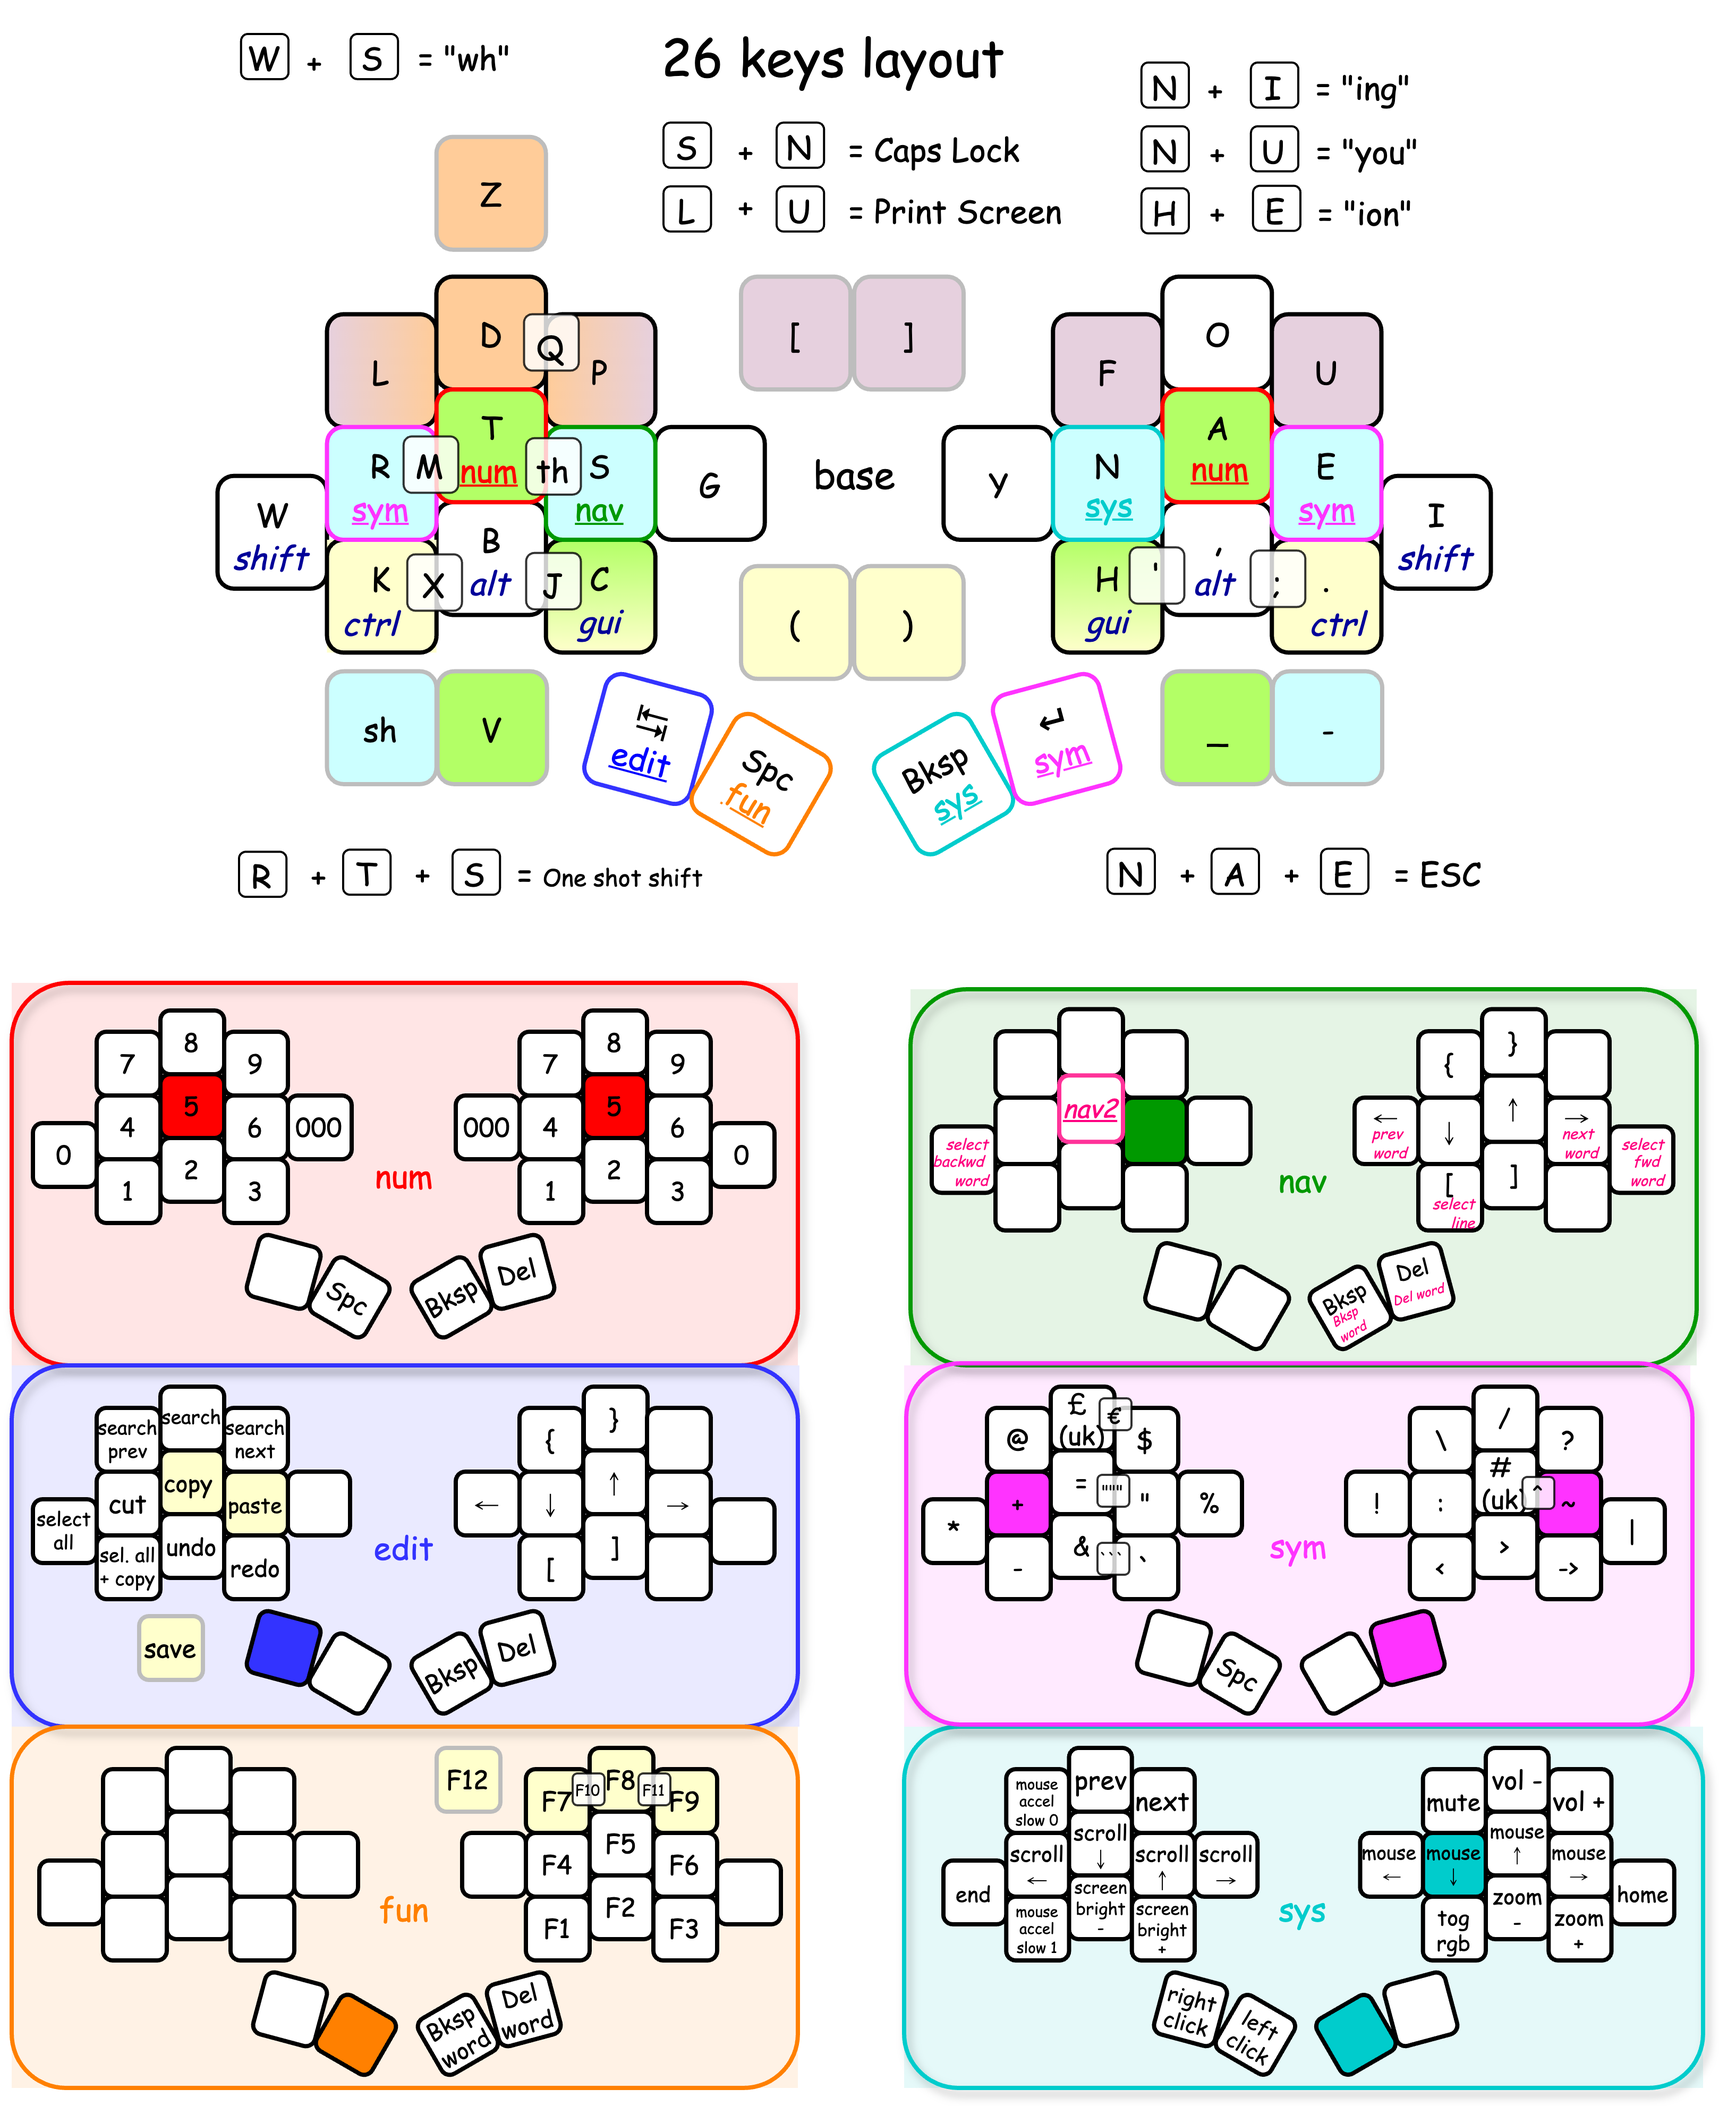
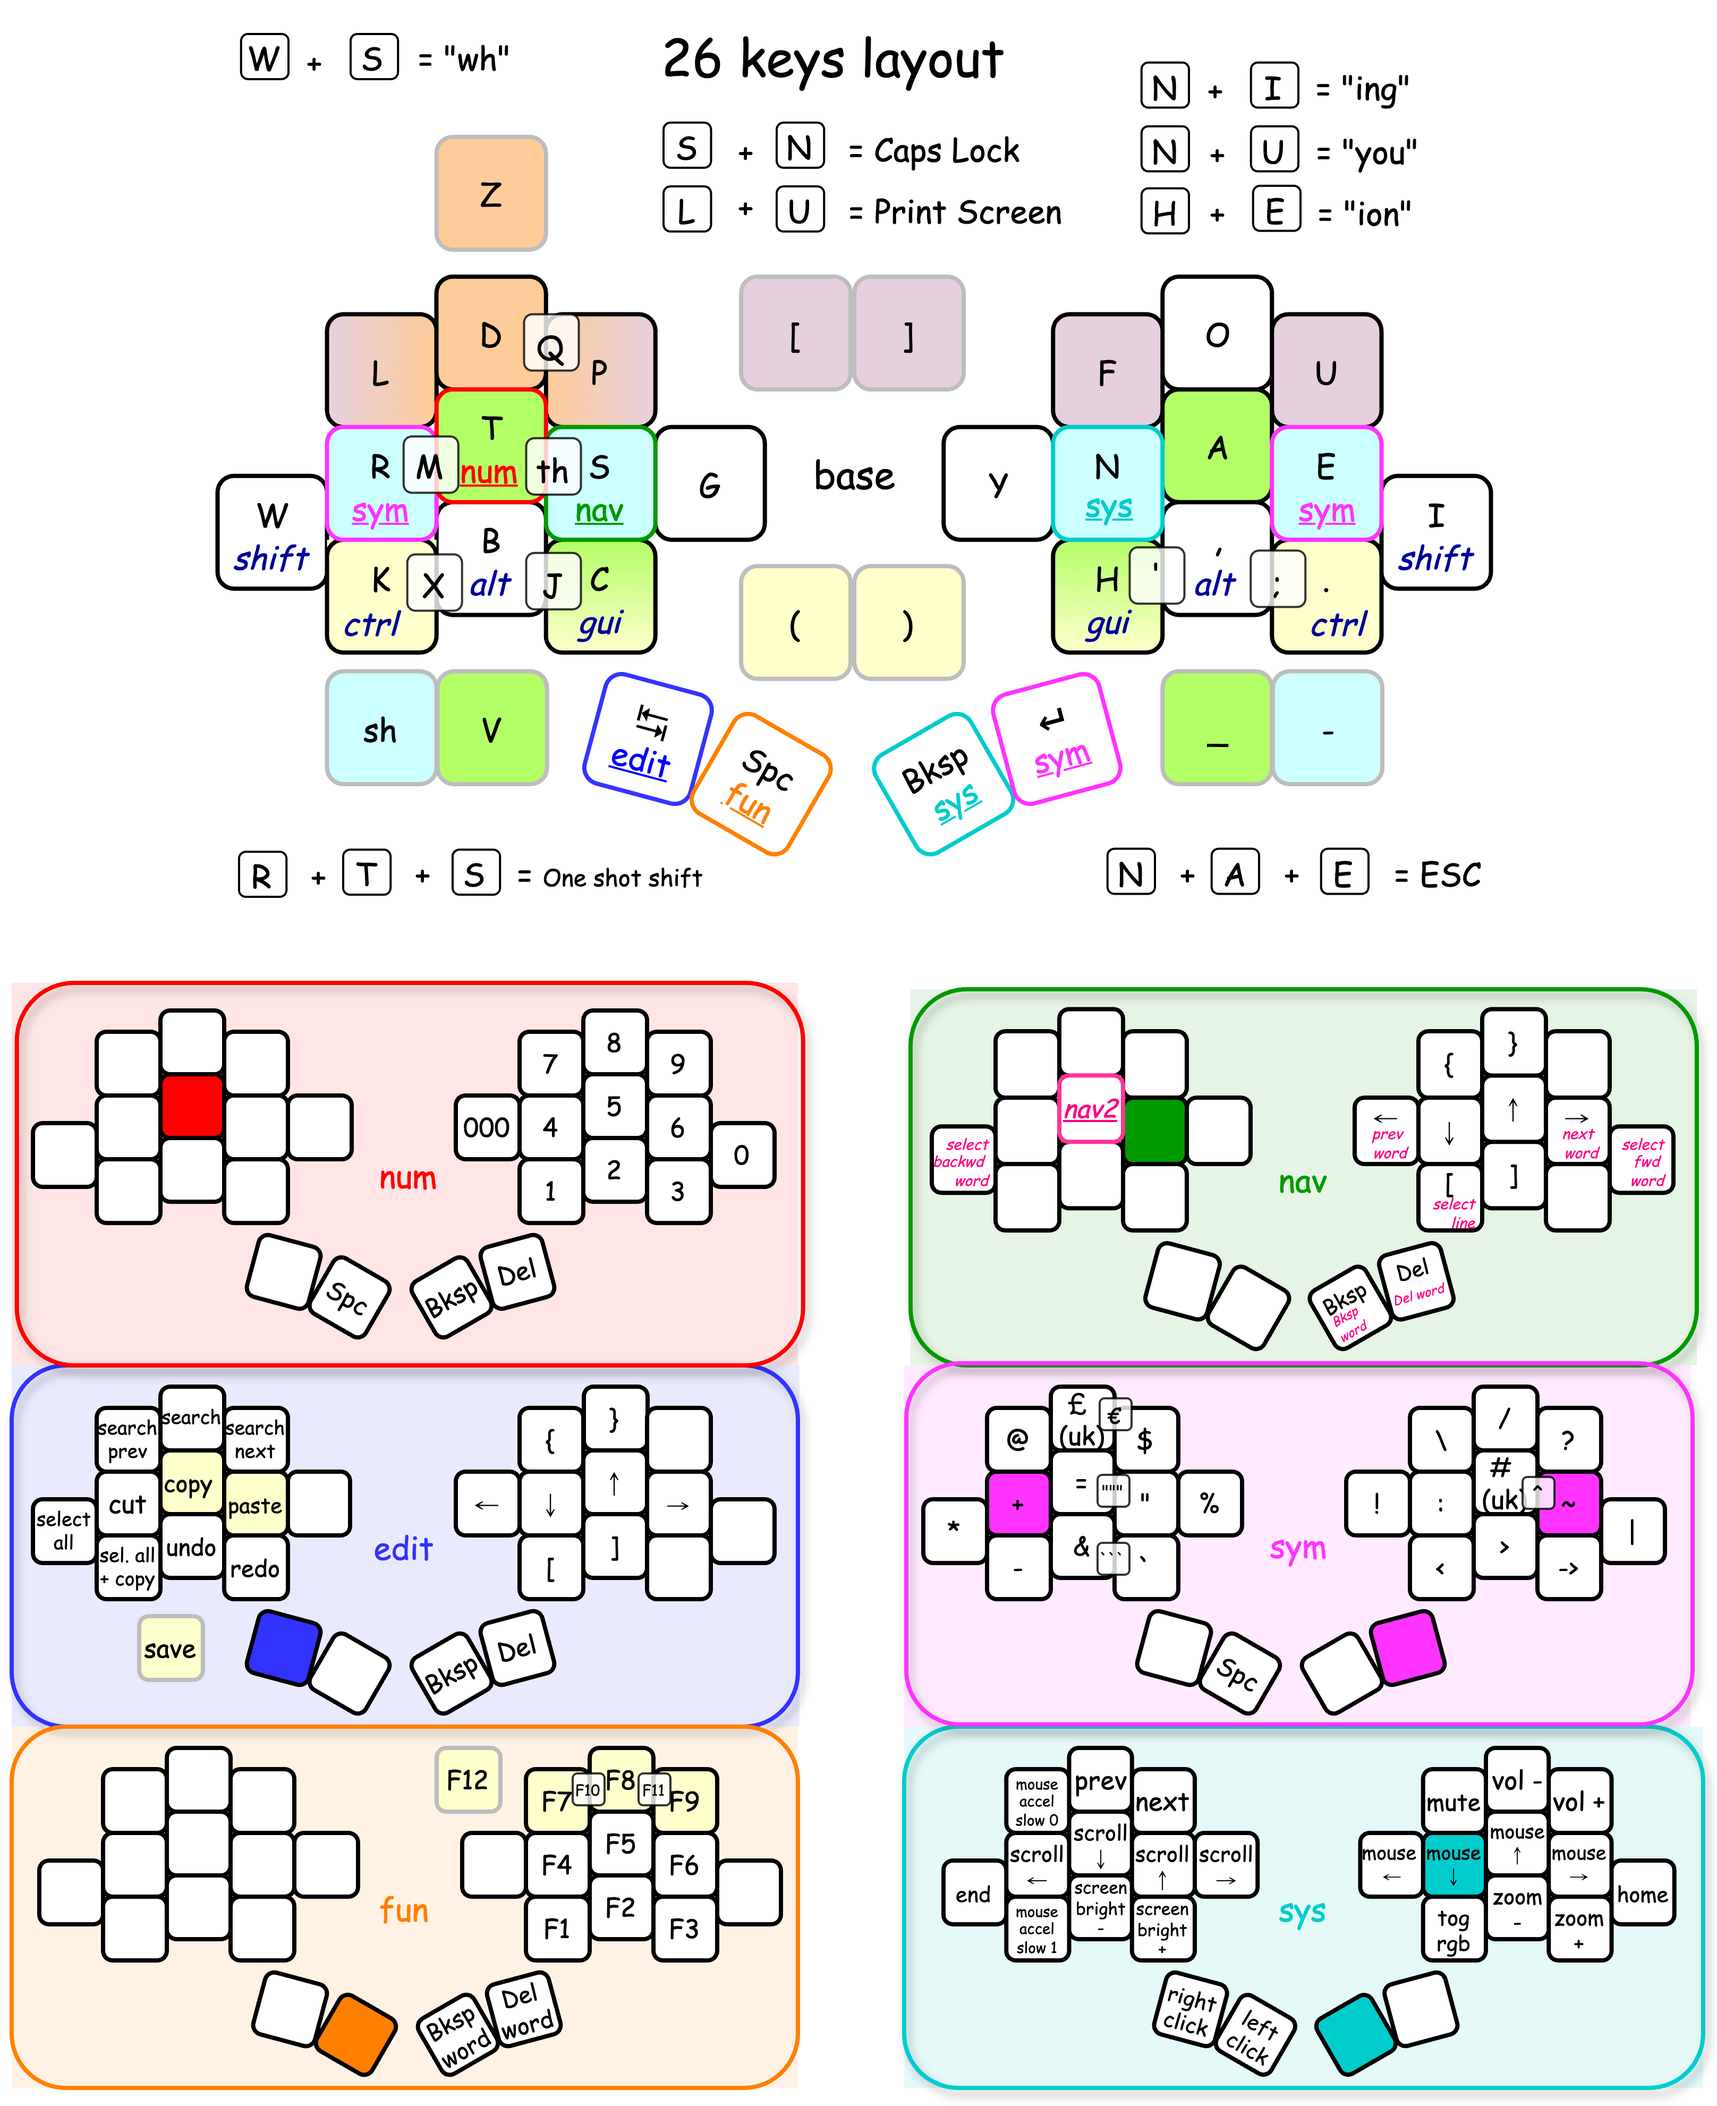
Updates

diff --git a/smallwat3r.c b/smallwat3r.c
@@ -44,7 +44,7 @@ enum custom_keycodes {
 #define  CK_16  KC_U
 #define  CK_17  KC_Y
 #define  CK_18  LT(SYS,       KC_N)
-#define  CK_19  LT(NUM,       KC_A)
+#define  CK_19  KC_A
 #define  CK_20  LT(SYM,       KC_E)
 #define  CK_21  MT(MOD_LSFT,  KC_I)
 #define  CK_22  MT(MOD_LGUI,  KC_H)
@@ -63,9 +63,9 @@ enum custom_keycodes {
 
 // base
 #define  ___BASE_L1___  CK_1,   CK_2,   CK_3
-#define  ___BASE_L1_30  KC_W,   CK_1,   CK_2,   CK_3,   KC_Q
+#define  ___BASE_L1_30  KC_M,   CK_1,   CK_2,   CK_3,   KC_Q
 #define  ___BASE_R1___  CK_14,  CK_15,  CK_16
-#define  ___BASE_R1_30  KC_J,   CK_14,  CK_15,  CK_16,  KC_ESC
+#define  ___BASE_R1_30  KC_J,   CK_14,  CK_15,  CK_16,  KC_QUOT
 #define  ___BASE_L2___  CK_4,   CK_5,   CK_6,   CK_7,   CK_8
 #define  ___BASE_R2___  CK_17,  CK_18,  CK_19,  CK_20,  CK_21
 #define  ___BASE_L3___  CK_9,   CK_10,  CK_11
@@ -74,14 +74,14 @@ enum custom_keycodes {
 #define  ___BASE_R4___  CK_25,  CK_26
 
 // num
-#define  ___NUM__L1___  KC_7,      KC_8,   KC_9
-#define  ___NUM__L1_30  KC_NO,     KC_7,   KC_8,  KC_9,  KC_NO
-#define  ___NUM__R1___  KC_7,      KC_8,   KC_9
-#define  ___NUM__R1_30  KC_NO,     KC_7,   KC_8,  KC_9,  KC_TRNS
-#define  ___NUM__L2___  KC_0,      KC_4,   KC_5,  KC_6,  M_KC_000
-#define  ___NUM__R2___  M_KC_000,  KC_4,   KC_5,  KC_6,  KC_0
-#define  ___NUM__L3___  KC_1,      KC_2,   KC_3
-#define  ___NUM__R3___  KC_1,      KC_2,   KC_3
+#define  ___NUM__L1___  KC_TRNS,   KC_TRNS,  KC_TRNS
+#define  ___NUM__L1_30  KC_TRNS,   KC_TRNS,  KC_TRNS,  KC_TRNS,  KC_TRNS
+#define  ___NUM__R1___  KC_7,      KC_8,     KC_9
+#define  ___NUM__R1_30  KC_NO,     KC_7,     KC_8,     KC_9,     KC_TRNS
+#define  ___NUM__L2___  KC_TRNS,   KC_TRNS,  KC_TRNS,  KC_TRNS,  KC_TRNS
+#define  ___NUM__R2___  M_KC_000,  KC_4,     KC_5,     KC_6,     KC_0
+#define  ___NUM__L3___  KC_TRNS,   KC_TRNS,  KC_TRNS
+#define  ___NUM__R3___  KC_1,      KC_2,     KC_3
 #define  ___NUM__L4___  KC_TRNS,   KC_SPC
 #define  ___NUM__R4___  KC_BSPC,   KC_DEL
 
